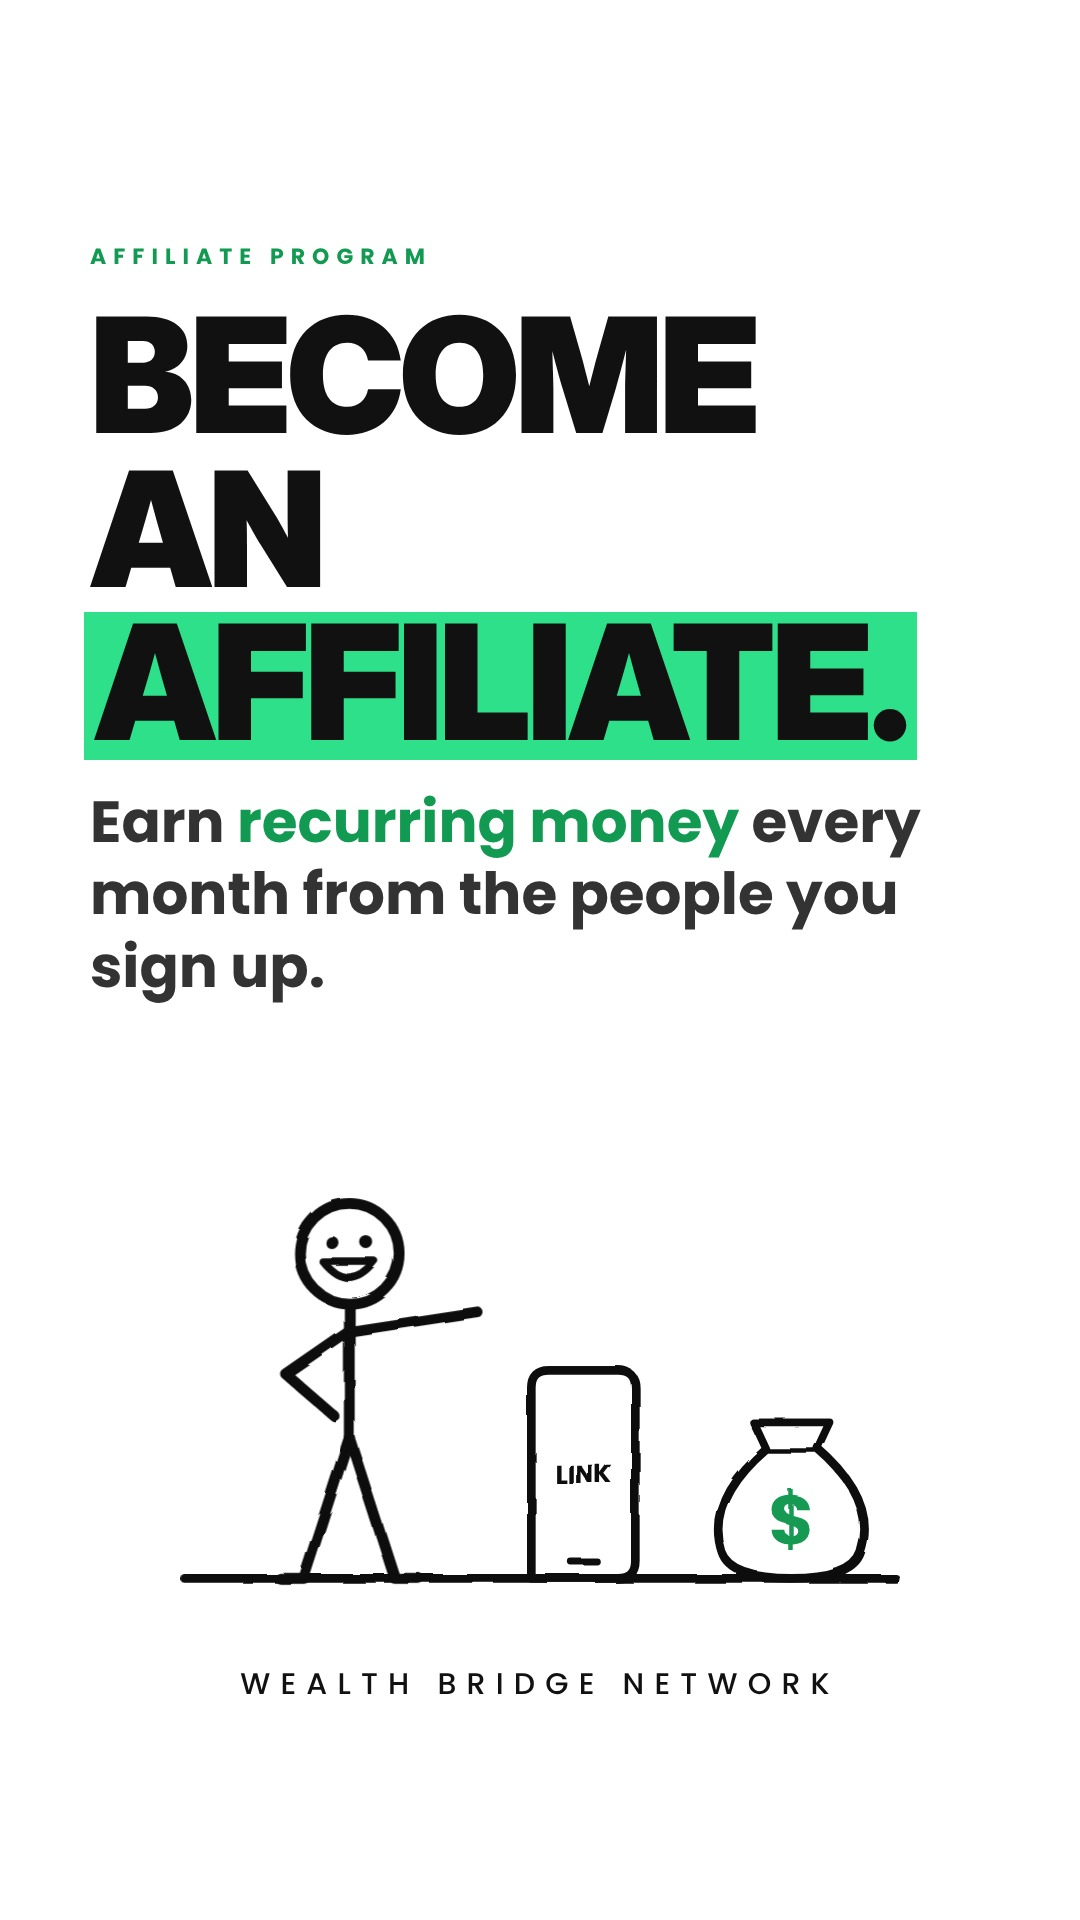
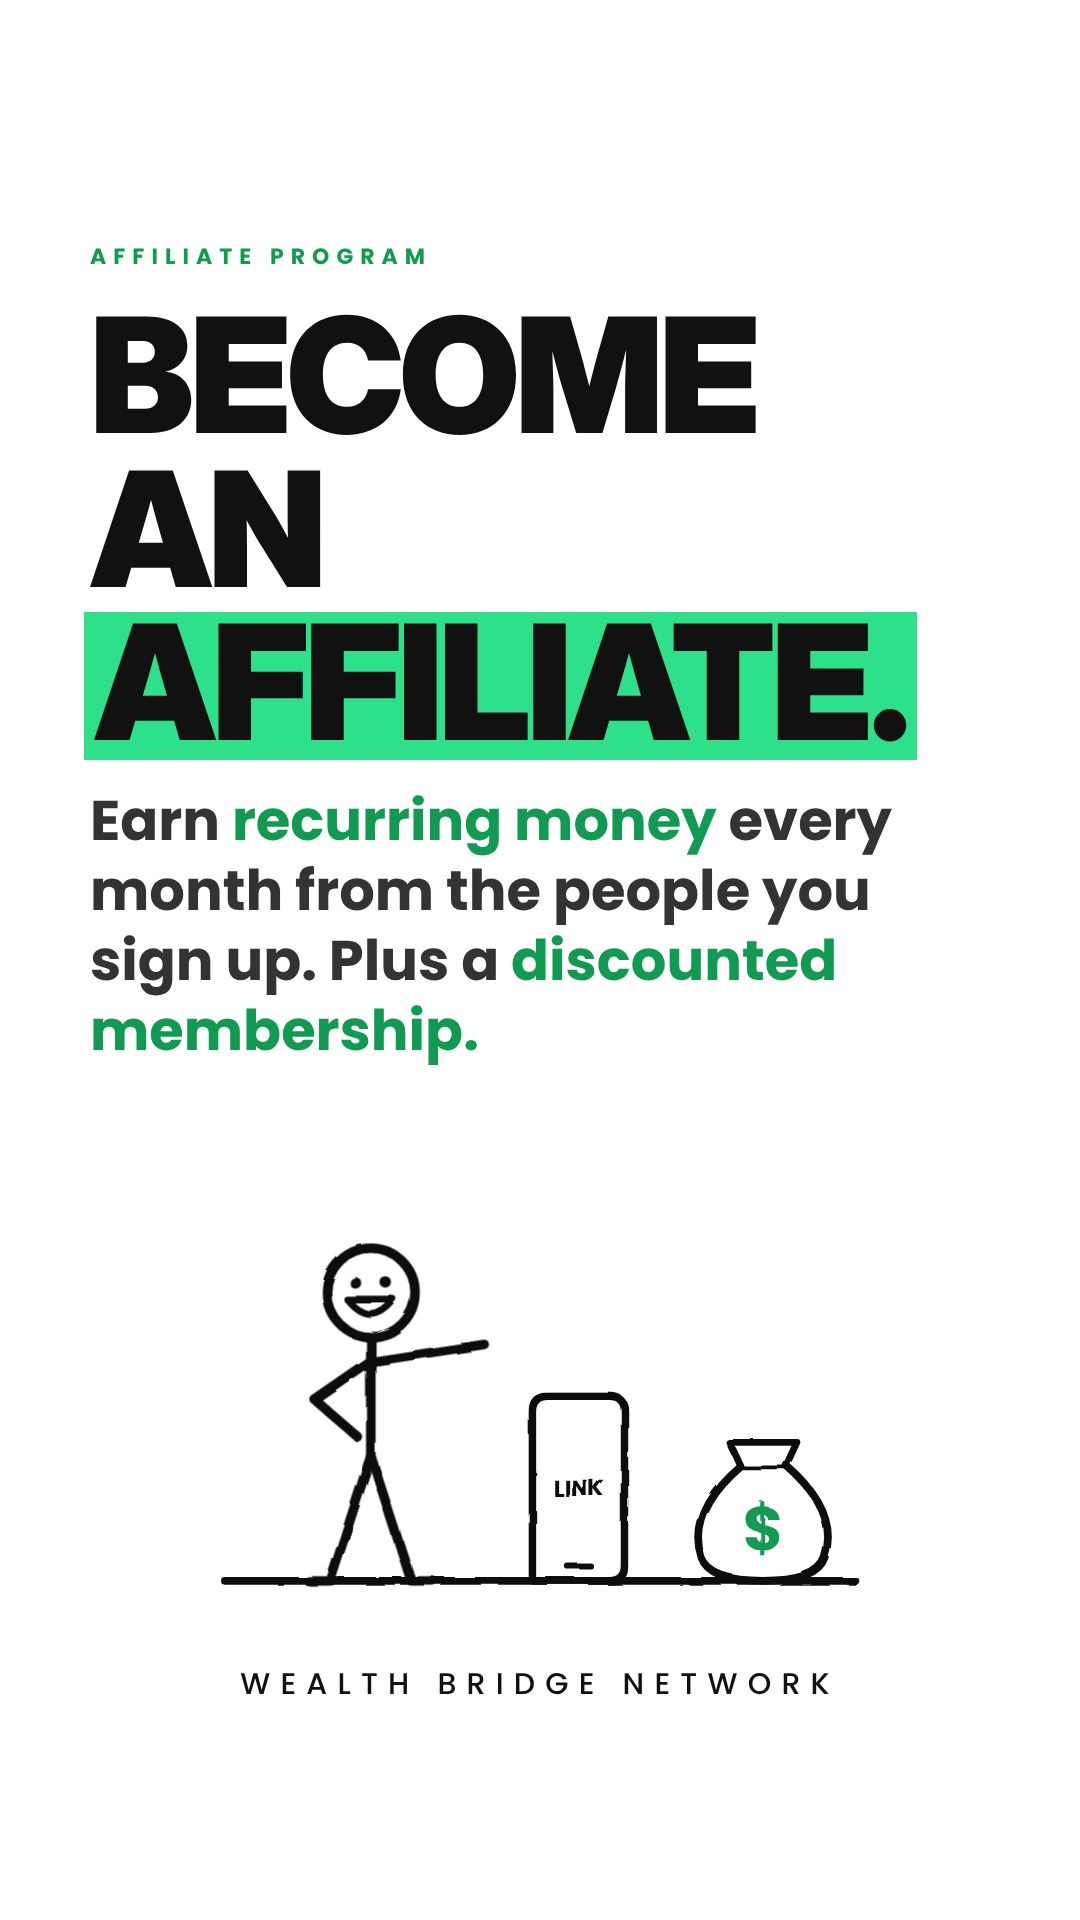
Highlights: apply-via-link steps, approval email, link-sticker card on each last slide
Claude-Session: https://claude.ai/code/session_01XWHiAuJ5usg3NqhhkBZ2QK

diff --git a/content/highlights.py b/content/highlights.py
@@ -9,8 +9,24 @@ from doodle import _p, _t, INK, RED, GREEN
 from marks_story import lbl, divider, cap
 
 
+def link_card(x, y, w=720, title="CLICK THIS LINK"):
+    """Soft green card with a dashed pill slot where the Instagram link sticker goes.
+    (x, y) = top-centre of the card. Height 400."""
+    l, h = x - w / 2, 400
+    b = f'<rect x="{l+14}" y="{y+16}" width="{w}" height="{h}" rx="44" fill="{INK}"/>'                # hard shadow
+    b += f'<rect x="{l}" y="{y}" width="{w}" height="{h}" rx="44" fill="#DFF7EA" stroke="{INK}" stroke-width="9"/>'
+    b += (f'<rect x="{x-215}" y="{y+42}" width="430" height="84" rx="42" fill="#2FE08A" stroke="{INK}" stroke-width="7"/>'
+          + _t(x, y + 99, title, 44, 800))
+    b += _p(f"M{x},{y+142} L{x},{y+188} M{x-20},{y+168} L{x},{y+190} L{x+20},{y+168}", 8)                # little arrow
+    b += (f'<rect x="{l+60}" y="{y+212}" width="{w-120}" height="150" rx="75" fill="#fff" stroke="{GREEN}" '
+          f'stroke-width="7" stroke-dasharray="22 16"/>')
+    for sx, sy in ((l + 40, y + 30), (l + w - 40, y + 370)):                                             # sparkles
+        b += _p(f"M{sx},{sy-22} L{sx},{sy+22} M{sx-22},{sy} L{sx+22},{sy}", 7, color=GREEN)
+    return b
+
+
 def month(x, y, s, name):
-    return coins(x, y, s, 3) + lbl(x, y + 52 * s, name, INK, int(34 * s / 0.7), 800)
+    return coins(x, y, s, 3) + lbl(x, y + 70 * s, name, INK, int(34 * s / 0.7), 800)
 
 
 POSTS = [
@@ -23,22 +39,22 @@ dict(id="hl-creators", title="Creators", slides=[
       items=["Models", "Athletes", "Travel bloggers", "Fitness", "Fashion", "Cosmetics", "E-commerce", "Storytellers"], **{"is": 70},
       scene=ground(60, 840, 300) + camera(150, 300, 0.55) + ball(300, 300, 0.6) + plane(470, 200, 0.45) + dumbbell(640, 300, 0.6) + figure(800, 300, 0.6, "up", "grin", flip=True), vh=320),
  dict(head="How it *works:*", hd=96,
-      items=["*DM us* to apply", "Send us your *media kit*", "We match you with *Chinese brands*", "You film, post and *get paid*"], **{"is": 72},
-      scene=ground(60, 840, 420) + board(160, 420, 0.75, "KIT") + arrow(270, 270, 380, 270, -60) + handshake_hands(500, 330, 0.9) + arrow(610, 270, 700, 270, -60) + moneybag(790, 420, 0.8), vh=440),
+      items=["Go to the *link in bio*", "Fill in the *application*", "Once approved, you'll get an *email from our team* with next steps"], **{"is": 64},
+      scene=link_card(450, 20), vh=440),
 ]),
 # ================================================================ 2 · AFFILIATE
 dict(id="hl-affiliate", title="Affiliate", slides=[
  dict(tag="Affiliate program", hook="Become an\n*affiliate.*", hs=160,
-      kick="Earn *recurring money* every month from the people you sign up.", ks=58,
+      kick="Earn *recurring money* every month from the people you sign up. Plus a *discounted membership.*", ks=56,
       scene=ground(40, 860, 620) + figure(230, 620, 1.25, "point", "grin") + phone(500, 620, 1.0, "LINK") + moneybag(740, 620, 1.0), vh=640),
  dict(head="How it *works:*", hd=96,
-      items=["Get your *personal link*", "Share it with your audience", "They sign up, *you earn*", "Paid *every month* they stay", "Plus a *discounted membership*"], **{"is": 70},
+      items=["Go to the *link in bio*", "Fill in the *affiliate application*", "Once approved, you'll get an *email from our team* with next steps", "Share your link and *earn every month*"], **{"is": 64},
       scene=ground(60, 840, 360) + phone(170, 360, 0.75, "LINK") + arrow(280, 220, 380, 220, -60) + crowd(530, 360, 0.6, 4, "happy") + arrow(660, 220, 730, 220, -60) + coins(800, 360, 0.75, 4), vh=380),
- dict(hook="Share once.\n*Get paid*\n*monthly.*", hs=150,
-      scene=lbl(450, 50, "YOUR MONTHS", INK, 40)
-      + ground(40, 860, 420) + month(130, 360, 0.7, "JAN") + month(290, 360, 0.7, "FEB") + month(450, 360, 0.7, "MAR")
-      + month(610, 360, 0.7, "APR") + month(770, 360, 0.7, "MAY") + arrow(150, 150, 750, 120, -80, GREEN, 12), vh=460,
-      kick="*Tap the link in bio* to become an affiliate.", ks=60),
+ dict(hook="Share once.\n*Get paid*\n*monthly.*", hs=130,
+      scene=lbl(450, 30, "YOUR MONTHS", INK, 40) + arrow(150, 100, 750, 80, -60, GREEN, 12)
+      + ground(40, 860, 270) + month(130, 200, 0.7, "JAN") + month(290, 200, 0.7, "FEB") + month(450, 200, 0.7, "MAR")
+      + month(610, 200, 0.7, "APR") + month(770, 200, 0.7, "MAY")
+      + link_card(450, 320), vh=740),
 ]),
 # ================================================================ 3 · JOIN THE NETWORK
 dict(id="hl-network", title="Join us", slides=[
@@ -49,7 +65,7 @@ dict(id="hl-network", title="Join us", slides=[
       items=["*Brand deals*", "*Jobs* in China", "*Scholarships*", "*Manufacturing* & sourcing", "*Free mentorship*"], **{"is": 76},
       scene=ground(60, 840, 360) + phone(150, 360, 0.6, "DEAL") + board(330, 360, 0.55, "JOB") + cap(520, 330, 0.7) + factory(700, 360, 0.5), vh=380),
  dict(hook="Building\n*bridges.*\nCreating\n*access.*", hs=160,
-      kick="*Tap the link in bio* to join today.", ks=64,
-      scene=ground(60, 840, 520) + figure(230, 520, 1.15, "point", "grin") + follow_phone(600, 520, 1.1), vh=540),
+      kick="Join today. *Tap below.*", ks=64,
+      scene=link_card(450, 20), vh=440),
 ]),
 ]
